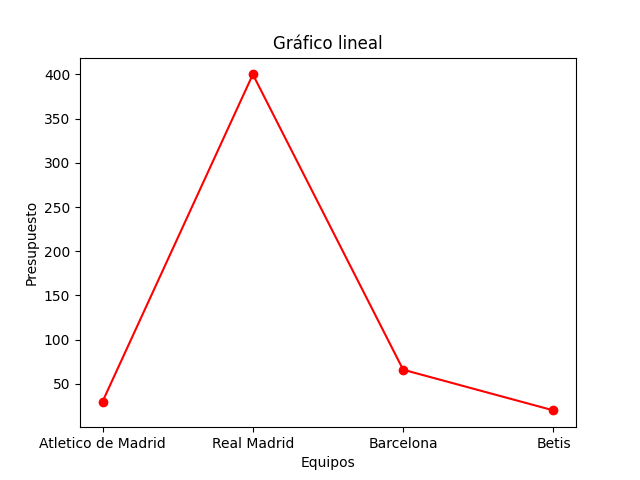
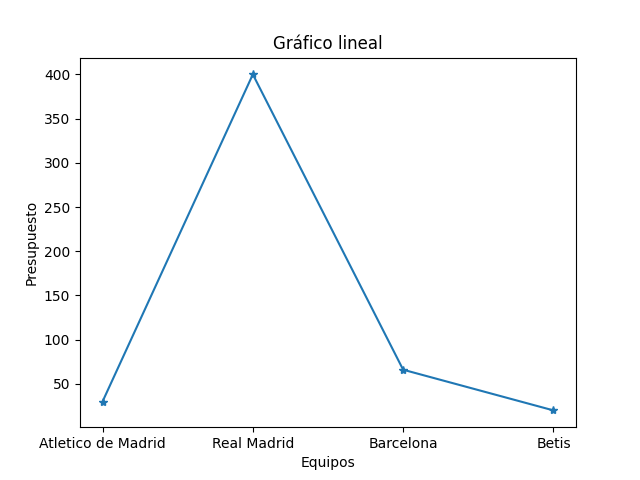
he creado un programa jupyter

diff --git a/grafico06.py b/grafico06.py
@@ -1,0 +1,20 @@
+import matplotlib.pyplot as plt
+
+semana = ("Lunes", "Martes", "Miércoles", "Jueves", "Viernes", "Sábado", "Domingo")
+temperaturas = []
+
+for dia in semana:
+    print(f"Temperatura del {dia}")
+    temp = int(input())
+    temperaturas.append(temp)
+#La ventaja d elos graficos está en que si le metemos mas series podemos representarlas en distintas labels
+#PAsamos las cosas estilo x e y
+plt.plot(semana, temperaturas, 'rD-', label="Semana")
+temperaturas2 = [4, 18, 5, 23, 12, 15, 16]
+plt.plot(semana, temperaturas2, 'g^--', label="Semana 2",)
+plt.legend()
+plt.title("Temperaturas febrero")
+plt.xlabel("Dia semana")
+plt.ylabel("Temperatura")
+plt.savefig('images/temperaturas.png')
+plt.show()

diff --git a/grafico05.py b/grafico05.py
@@ -1,0 +1,19 @@
+import matplotlib.pyplot as plt
+
+productos = []
+ventas = []
+
+#Deseamos pedir 5 productos
+
+for i in range(1, 6):
+    print("Nombre del producto")
+    prod = input()
+    productos.append(prod)
+    print("Introduzca el número de ventas")
+    num = int(input())
+    ventas.append(num)
+
+plt.pie(ventas, labels=productos)
+plt.title("Venta de Juegos")
+plt.savefig('images/ventas_tarta.png')
+plt.show()

diff --git a/grafico03.py b/grafico03.py
@@ -8,7 +8,7 @@ x = ["Atletico de Madrid", "Real Madrid", "Barcelona", "Betis"]
 y = [30, 400, 66, 20]
 
 #Libreria mediante libreria(alias).bar
-plt.plot(x, y, marker='o')
+plt.plot(x, y, marker='*')
 #PErsonalizamos el gráfico 
 plt.title("Gráfico lineal")
 plt.xlabel("Equipos")
